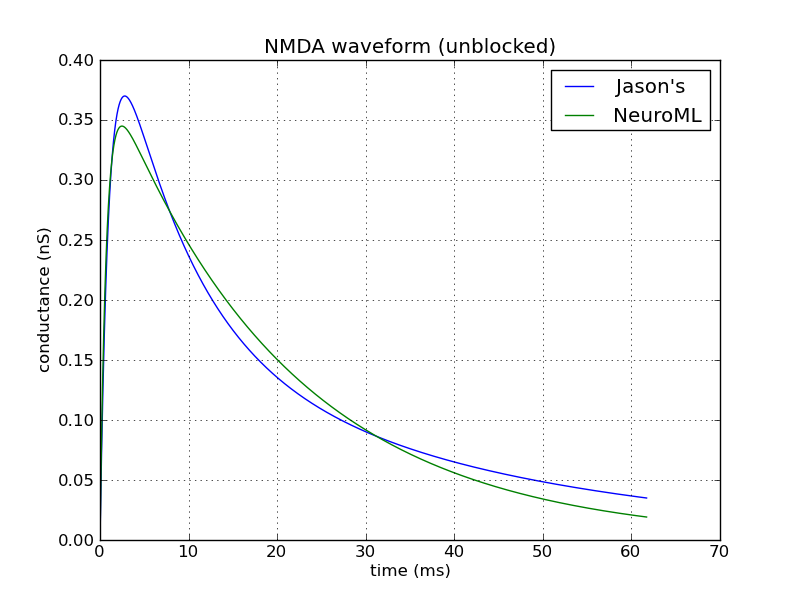
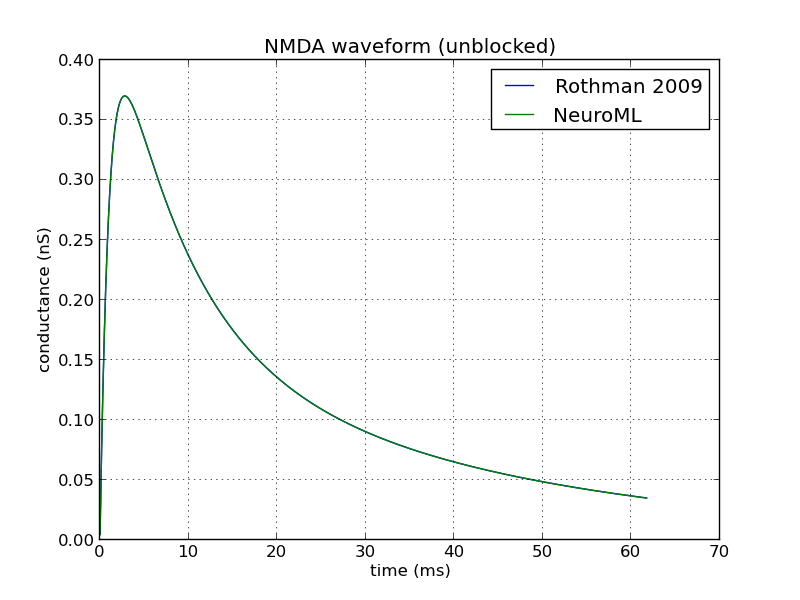
Use two decay time constants for fit to NMDA unblocked waveform.

diff --git a/waveforms.py b/waveforms.py
@@ -64,6 +64,9 @@ def g_subcomp(t, tau_rise, a, tau_dec):
 def a_g_comp(t, tau_rise, a1, tau_dec_1, a2, tau_dec_2, a3, tau_dec_3):
     return g_subcomp(t, tau_rise, a1, tau_dec_1) + g_subcomp(t, tau_rise, a2, tau_dec_2) + g_subcomp(t, tau_rise, a3, tau_dec_3)
 
+def n_g_comp(t, tau_rise, a1, tau_dec_1, a2, tau_dec_2):
+    return g_subcomp(t, tau_rise, a1, tau_dec_1) + g_subcomp(t, tau_rise, a2, tau_dec_2)
+
 def a_g_J_unnorm_comp(t, N, tau_rise, a1, tau_dec_1, a2, tau_dec_2, a3, tau_dec_3):
     return pow(1-exp(-t/tau_rise), N) * (a1*exp(-t/tau_dec_1) + a2*exp(-t/tau_dec_2) + a3*exp(-t/tau_dec_3))
 
@@ -163,10 +166,10 @@ if __name__ == '__main__':
 
         n_block_eric_values = np.array([n_block_eric(v, n_K1slope_J, n_K2slope_J, n_VK1on_J, n_VK1off_J, n_VK2off_J) for v in voltage_points])
 
-        n_g_unblock_params_f = curve_fit(g_subcomp, time_points, n_g_unblock_J_scaled, [n_tau_rise_J, n_g_peak_J, (n_tau_dec_1_J*n_a1_J + n_tau_dec_2_J*n_a2_J)/(n_a1_J + n_a2_J)])[0]
+        n_g_unblock_params_f = curve_fit(n_g_comp, time_points, n_g_unblock_J_scaled, [n_tau_rise_J, n_g_peak_J*n_a1_J, n_tau_dec_1_J, n_g_peak_J*n_a2_J, n_tau_dec_2_J])[0]
         n_block_params_f = curve_fit(n_block, voltage_points, n_block_eric_values, [1, 0.0035])[0]
 
-        n_g_unblock_fitted = partial(g_subcomp, tau_rise=n_g_unblock_params_f[0], a=n_g_unblock_params_f[1], tau_dec=n_g_unblock_params_f[2])
+        n_g_unblock_fitted = partial(n_g_comp, tau_rise=n_g_unblock_params_f[0], a1=n_g_unblock_params_f[1], tau_dec_1=n_g_unblock_params_f[2], a2=n_g_unblock_params_f[3], tau_dec_2=n_g_unblock_params_f[4])
         n_block_fitted = partial(n_block, eta=n_block_params_f[0], gamma=n_block_params_f[1])
 
         n_g_unblock_values = np.array([n_g_unblock_fitted(t) for t in time_points])
@@ -176,12 +179,12 @@ if __name__ == '__main__':
         print(integral_diff)
 
 
-        param_file.write("NMDA (unbblocked) parameters: {params}\n".format(params=zip(['tau_rise', 'a', 'tau_dec'], n_g_unblock_params_f)))
+        param_file.write("NMDA (unbblocked) parameters: {params}\n".format(params=zip(['tau_rise', 'a1', 'tau_dec_1', 'a2', 'tau_dec_2'], n_g_unblock_params_f)))
         param_file.write("NMDA block expression: {params}\n".format(params=zip(['eta', 'gamma'], n_block_params_f)))
 
         n_fig = plt.figure()
         n_ax = n_fig.add_subplot(111)
-        n_ax.plot(time_points, n_g_unblock_J_scaled, label="Jason's")
+        n_ax.plot(time_points, n_g_unblock_J_scaled, label="Rothman 2009")
         n_ax.plot(time_points, n_g_unblock_values, label="NeuroML")
         n_ax.set_title('NMDA waveform (unblocked)')
         n_ax.set_xlabel('time (ms)')
